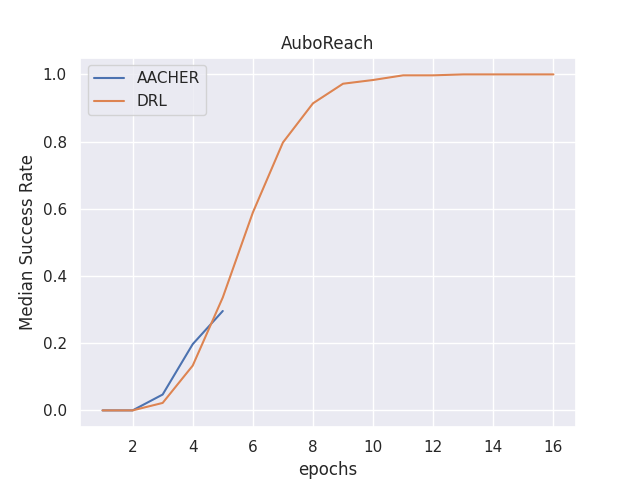
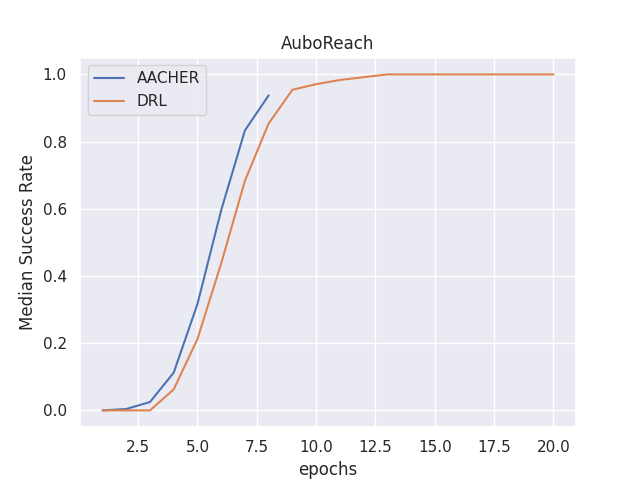
updating test script, plot file, adding new plots

diff --git a/test_script_multi_actor_critic.py b/test_script_multi_actor_critic.py
@@ -2,80 +2,80 @@ import os
 
 # A1C3
 os.system('python3 -m train '
-          '--logdir=home/adarshsehgal/AACHER_logs/multi-ac-logs-A1C3 '
+          '--logdir=/home/adarshsehgal/AACHER_logs/multi-ac-logs-A1C3 '
           '--number_actors_main=1 '
           '--number_critics_main=3 '
           '--number_actors_target=1 '
           '--number_critics_target=3 '
-          '--num_cpu=3 '
+          '--num_cpu=4 '
           '--n_epochs=20')
 
 # A1C5
 os.system('python3 -m train '
-          '--logdir=home/adarshsehgal/AACHER_logs/multi-ac-logs-A1C5 '
+          '--logdir=/home/adarshsehgal/AACHER_logs/multi-ac-logs-A1C5 '
           '--number_actors_main=1 '
           '--number_critics_main=5 '
           '--number_actors_target=1 '
           '--number_critics_target=5 '
-          '--num_cpu=3 '
+          '--num_cpu=4 '
           '--n_epochs=20')
 
 # A1C7
 os.system('python3 -m train '
-          '--logdir=home/adarshsehgal/AACHER_logs/multi-ac-logs-A1C7 '
+          '--logdir=/home/adarshsehgal/AACHER_logs/multi-ac-logs-A1C7 '
           '--number_actors_main=1 '
           '--number_critics_main=7 '
           '--number_actors_target=1 '
           '--number_critics_target=7 '
-          '--num_cpu=3 '
+          '--num_cpu=4 '
           '--n_epochs=20')
 
 # A1C10
 os.system('python3 -m train '
-          '--logdir=home/adarshsehgal/AACHER_logs/multi-ac-logs-A1C10 '
+          '--logdir=/home/adarshsehgal/AACHER_logs/multi-ac-logs-A1C10 '
           '--number_actors_main=1 '
           '--number_critics_main=10 '
           '--number_actors_target=1 '
           '--number_critics_target=10 '
-          '--num_cpu=3 '
+          '--num_cpu=4 '
           '--n_epochs=20')
 
 # A3C3
 os.system('python3 -m train '
-          '--logdir=home/adarshsehgal/AACHER_logs/multi-ac-logs-A3C3 '
+          '--logdir=/home/adarshsehgal/AACHER_logs/multi-ac-logs-A3C3 '
           '--number_actors_main=3 '
           '--number_critics_main=3 '
           '--number_actors_target=3 '
           '--number_critics_target=3 '
-          '--num_cpu=3 '
+          '--num_cpu=4 '
           '--n_epochs=20')
 
 # A3C5
 os.system('python3 -m train '
-          '--logdir=home/adarshsehgal/AACHER_logs/multi-ac-logs-A3C5 '
+          '--logdir=/home/adarshsehgal/AACHER_logs/multi-ac-logs-A3C5 '
           '--number_actors_main=3 '
           '--number_critics_main=5 '
           '--number_actors_target=3 '
           '--number_critics_target=5 '
-          '--num_cpu=3 '
+          '--num_cpu=4 '
           '--n_epochs=20')
 
 # A5C7
 os.system('python3 -m train '
-          '--logdir=home/adarshsehgal/AACHER_logs/multi-ac-logs-A5C7 '
+          '--logdir=/home/adarshsehgal/AACHER_logs/multi-ac-logs-A5C7 '
           '--number_actors_main=5 '
           '--number_critics_main=7 '
           '--number_actors_target=5 '
           '--number_critics_target=7 '
-          '--num_cpu=3 '
+          '--num_cpu=4 '
           '--n_epochs=20')
 
 # A7C10
 os.system('python3 -m train '
-          '--logdir=home/adarshsehgal/AACHER_logs/multi-ac-logs-A7C10 '
+          '--logdir=/home/adarshsehgal/AACHER_logs/multi-ac-logs-A7C10 '
           '--number_actors_main=7 '
           '--number_critics_main=10 '
           '--number_actors_target=7 '
           '--number_critics_target=10 '
-          '--num_cpu=3 '
+          '--num_cpu=4 '
           '--n_epochs=20')

diff --git a/train.py b/train.py
@@ -273,9 +273,9 @@ def launch(
 
 @click.command()
 @click.option('--env', type=str, default='AuboReach-v5', help='the name of the OpenAI Gym environment that you want to train on')
-@click.option('--logdir', type=str, default='/home/adarshsehgal/AACHER_logs/multi-ac-logs-3', help='the path to where logs and policy pickles should go. If not specified, creates a folder in /tmp/')
-@click.option('--n_epochs', type=int, default=40, help='the number of training epochs to run')
-@click.option('--num_cpu', type=int, default=3, help='the number of CPU cores to use (using MPI)')
+@click.option('--logdir', type=str, default='/home/adarshsehgal/AACHER_logs/multi-ac-logs', help='the path to where logs and policy pickles should go. If not specified, creates a folder in /tmp/')
+@click.option('--n_epochs', type=int, default=20, help='the number of training epochs to run')
+@click.option('--num_cpu', type=int, default=4, help='the number of CPU cores to use (using MPI)')
 @click.option('--seed', type=int, default=0, help='the random seed used to seed both the environment and the training code')
 @click.option('--policy_save_interval', type=int, default=5, help='the interval with which policy pickles are saved. If set to 0, only the best and latest policy will be pickled.')
 @click.option('--replay_strategy', type=click.Choice(['future', 'none']), default='future', help='the HER replay strategy to be used. "future" uses HER, "none" disables HER.')

diff --git a/plot-v2.py b/plot-v2.py
@@ -60,7 +60,7 @@ args = parser.parse_args()
 data = {}
 data2 = {}
 # paths = [os.path.abspath(os.path.join(path, '..')) for path in glob2.glob(os.path.join(args.dir, '**', 'progress.csv'))]
-paths = ['/home/adarshsehgal/AACHER_logs/multi-ac-logs-3']
+paths = ['/home/adarshsehgal/AACHER_logs/multi-ac-logs-A1C3']
 for curr_path in paths:
     if not os.path.isdir(curr_path):
         continue
